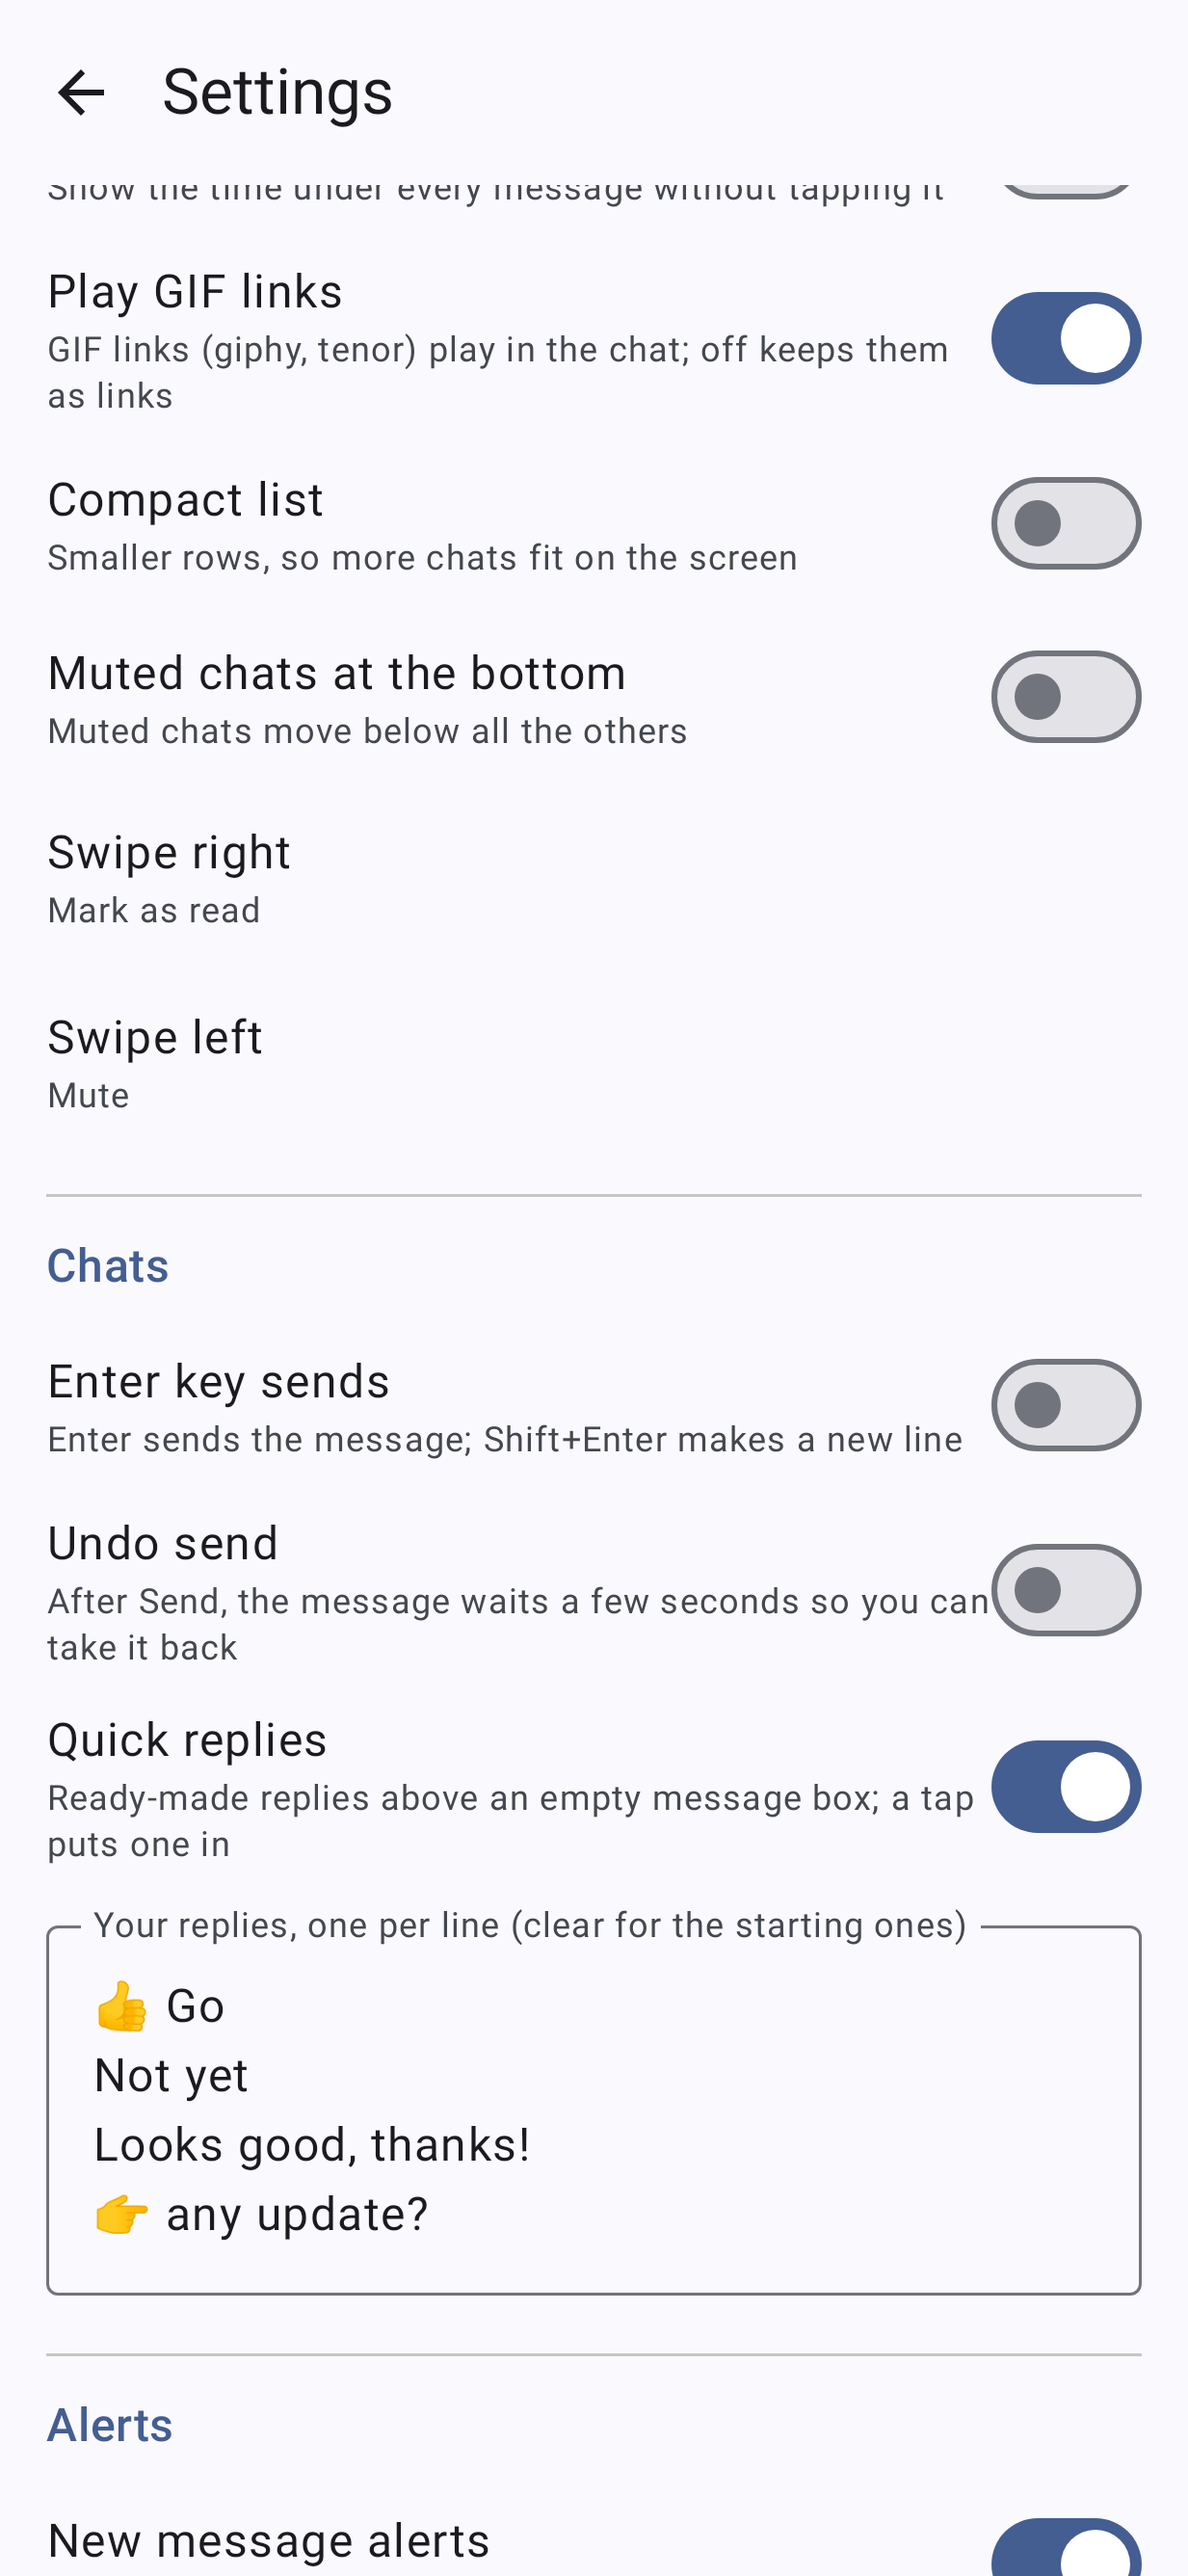
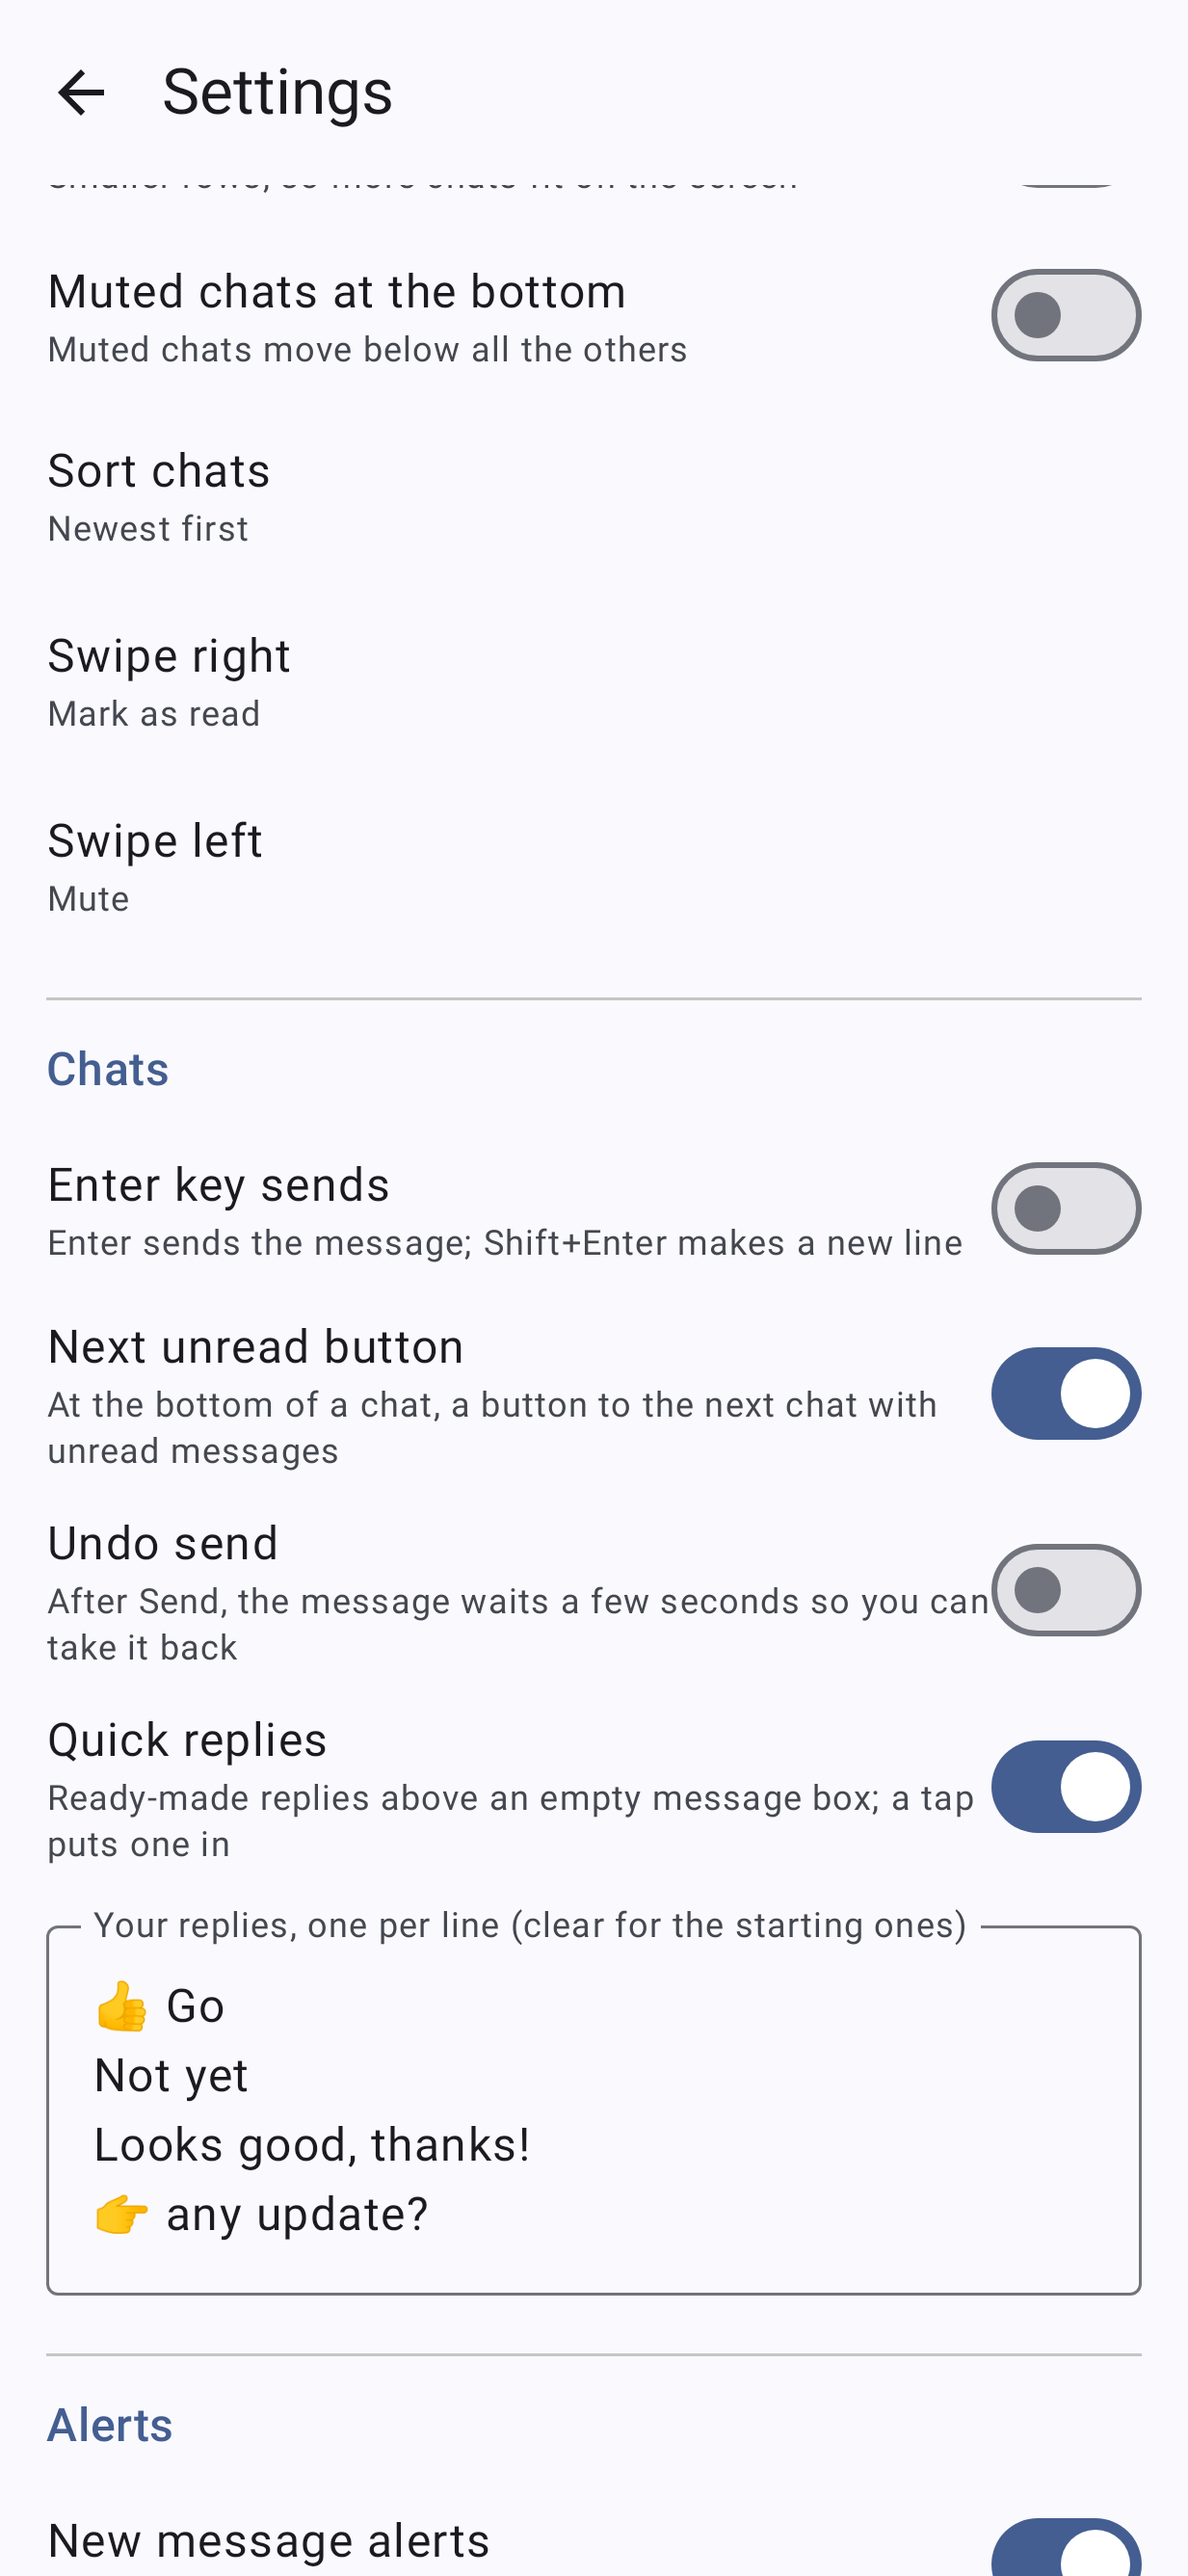
Settings: Next unread button on or off (AII-254)

diff --git a/app/src/main/java/com/smizflark/aigile/messenger/ui/Theme.kt b/app/src/main/java/com/smizflark/aigile/messenger/ui/Theme.kt
@@ -89,6 +89,8 @@ object Appearance {
     /** What swiping a chat does (AII-216). */
     var swipeRight by mutableStateOf(com.smizflark.aigile.messenger.data.SWIPE_RIGHT_DEFAULT)
     var swipeLeft by mutableStateOf(com.smizflark.aigile.messenger.data.SWIPE_LEFT_DEFAULT)
+    /** The Next unread button in a chat (AII-254). */
+    var nextUnread by mutableStateOf(true)
     /** Buzz on send and on a new reply (AII-205). */
     var buzz by mutableStateOf(true)
     /** The hour Send in the morning uses (AII-208). */
@@ -102,7 +104,7 @@ object Appearance {
 
     /** Reads everything again, so the screen follows a reset at once (AII-217). */
     fun reload(store: Store) {
-        run { look = Look.of(store.look); phoneColours = store.phoneColours; textSize = TextSize.of(store.textSize); enterSends = store.enterSends; gifs = store.gifs; compact = store.compact; mutedLast = store.mutedLast; sortAz = store.sortChats == "az"; morning = store.morning; buzz = store.buzz; undoSend = store.undoSend; undoSeconds = store.undoSeconds; quickReplies = store.quickReplies; showTimes = store.showTimes; swipeRight = com.smizflark.aigile.messenger.data.SwipeChoice.of(store.swipeRight, com.smizflark.aigile.messenger.data.SWIPE_RIGHT_DEFAULT); swipeLeft = com.smizflark.aigile.messenger.data.SwipeChoice.of(store.swipeLeft, com.smizflark.aigile.messenger.data.SWIPE_LEFT_DEFAULT); replies = com.smizflark.aigile.messenger.data.Replies.parse(store.quickReplyText) }
+        run { look = Look.of(store.look); phoneColours = store.phoneColours; textSize = TextSize.of(store.textSize); enterSends = store.enterSends; nextUnread = store.nextUnread; gifs = store.gifs; compact = store.compact; mutedLast = store.mutedLast; sortAz = store.sortChats == "az"; morning = store.morning; buzz = store.buzz; undoSend = store.undoSend; undoSeconds = store.undoSeconds; quickReplies = store.quickReplies; showTimes = store.showTimes; swipeRight = com.smizflark.aigile.messenger.data.SwipeChoice.of(store.swipeRight, com.smizflark.aigile.messenger.data.SWIPE_RIGHT_DEFAULT); swipeLeft = com.smizflark.aigile.messenger.data.SwipeChoice.of(store.swipeLeft, com.smizflark.aigile.messenger.data.SWIPE_LEFT_DEFAULT); replies = com.smizflark.aigile.messenger.data.Replies.parse(store.quickReplyText) }
     }
 }
 

diff --git a/app/src/main/java/com/smizflark/aigile/messenger/data/Store.kt b/app/src/main/java/com/smizflark/aigile/messenger/data/Store.kt
@@ -178,6 +178,11 @@ class Store(context: Context) {
         get() = settings.getBoolean("enterSends", false)
         set(v) = settings.edit().putBoolean("enterSends", v).apply()
 
+    /** The Next unread button at the bottom of a chat (AII-254). */
+    var nextUnread: Boolean
+        get() = settings.getBoolean("nextUnread", true)
+        set(v) = settings.edit().putBoolean("nextUnread", v).apply()
+
     /** Ready-made replies above an empty message box (AII-179). */
     var quickReplies: Boolean
         get() = settings.getBoolean("quickReplies", true)
@@ -313,7 +318,7 @@ class Store(context: Context) {
     companion object {
         const val SETTINGS = "settings"
         /** The preferences that go into backup. Everything else stays in the "messenger" file. */
-        val BACKED_UP = listOf("alerts", "quietFrom", "quietTo", "morning", "quietOn", "look", "phoneColours", "textSize", "compact", "mutedLast", "sortChats", "enterSends", "undoSend", "undoSeconds", "gifs", "buzz", "quickReplies", "quickReplyText", "pinned", "muted", "silent", "showTimes", "swipeRight", "swipeLeft")
+        val BACKED_UP = listOf("alerts", "quietFrom", "quietTo", "morning", "quietOn", "look", "phoneColours", "textSize", "compact", "mutedLast", "sortChats", "enterSends", "nextUnread", "undoSend", "undoSeconds", "gifs", "buzz", "quickReplies", "quickReplyText", "pinned", "muted", "silent", "showTimes", "swipeRight", "swipeLeft")
 
         /** What "Reset settings" clears (AII-217): every backed-up setting except the ones that are your data. */
         val KEPT_ON_RESET = setOf("pinned", "muted", "silent")

diff --git a/app/src/main/java/com/smizflark/aigile/messenger/ui/ChatScreen.kt b/app/src/main/java/com/smizflark/aigile/messenger/ui/ChatScreen.kt
@@ -324,7 +324,8 @@ fun ChatScreen(repo: Repo, ref: ChatRef, onBack: () -> Unit, focus: String? = nu
     }
     val unread = if (atBottom) 0 else unreadBelow(convo?.bubbles.orEmpty(), seenNewest)
     // AII-204: the next unread chat in chats-list order, worked out as the chats list does it; looked at again whenever you reach the bottom.
-    val nextChat = remember(atBottom, convo) {
+    val nextChat = remember(atBottom, convo, Appearance.nextUnread) {
+        if (!Appearance.nextUnread) return@remember null   // AII-254
         val all = repo.store.cachedChats().orEmpty()
         val seenAll = repo.store.seen()
         val counts = all.associate { it.key to News.unread(it, seenAll[it.key], repo.store.cachedConversation(it.key)) }

diff --git a/app/src/main/java/com/smizflark/aigile/messenger/ui/SettingsScreen.kt b/app/src/main/java/com/smizflark/aigile/messenger/ui/SettingsScreen.kt
@@ -147,6 +147,9 @@ fun SettingsScreen(repo: Repo, onBack: () -> Unit, onSignedOut: () -> Unit, onRe
             Toggle(stringResource(R.string.enter_sends), stringResource(R.string.enter_sends_sub), Appearance.enterSends, Modifier.testTag("enterSends")) {
                 Appearance.enterSends = it; s.enterSends = it
             }
+            Toggle(stringResource(R.string.next_unread_setting), stringResource(R.string.next_unread_setting_sub), Appearance.nextUnread, Modifier.testTag("nextUnread")) {
+                Appearance.nextUnread = it; s.nextUnread = it
+            }
             // AII-209: only when there are any.
             val reminderCount = remember { s.reminders().size }
             if (reminderCount > 0) {
